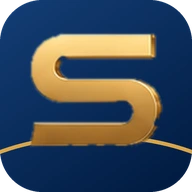
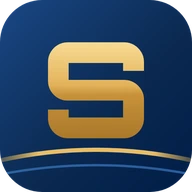
โลโก้หัวเพจทำใหม่เป็นเวกเตอร์ (SVG) — คมทุกขนาด แทนตัวอักษรที่ตัดจากรูปซึ่งเบลอ/ขอบแตก
- wordmark: ERP (กรมท่า) + SHIPME (ทองไล่เฉด) + LOGISTICS พร้อมเส้นทองแบบโลโก้ต้นฉบับ (ฟอนต์ Orbitron OFL แปลงเป็น path แล้ว ไม่ต้องโหลดฟอนต์)
- สัญลักษณ์ S ทองบนกรมท่า + เส้นโค้งทอง/ฟ้า: mark.svg ใช้ในหัวทุกหน้า + favicon SVG
- ไอคอน PNG ทุกขนาด (favicon / apple-touch / 192 / 512 / maskable) เรนเดอร์จาก SVG ชุดเดียวกัน
- หน้าเข้าสู่ระบบยังใช้โลโก้เต็มรูปเรือ

Changed region(s): [[0.0, 0.1562, 1.0, 0.9062], [0.7812, 0.9688, 0.8125, 1.0], [0.1875, 0.9688, 0.2188, 1.0]]

diff --git a/v2/public/admin.html b/v2/public/admin.html
@@ -5,9 +5,10 @@
 <meta name="viewport" content="width=device-width, initial-scale=1.0">
 <title>ERP SHIPME — ผู้ดูแลระบบ</title>
 <meta name="theme-color" content="#0B2A52">
-<link rel="icon" type="image/png" sizes="32x32" href="/brand/favicon-32.png?v=3">
-<link rel="icon" type="image/png" sizes="64x64" href="/brand/favicon-64.png?v=3">
-<link rel="apple-touch-icon" href="/brand/apple-touch-icon.png?v=3">
+<link rel="icon" type="image/svg+xml" href="/brand/mark.svg?v=4">
+<link rel="icon" type="image/png" sizes="32x32" href="/brand/favicon-32.png?v=4">
+<link rel="icon" type="image/png" sizes="64x64" href="/brand/favicon-64.png?v=4">
+<link rel="apple-touch-icon" href="/brand/apple-touch-icon.png?v=4">
 <style>
 @font-face{font-family:Sarabun;font-style:normal;font-weight:400;src:url("/fonts/Sarabun-Regular.ttf") format("truetype");font-display:swap}@font-face{font-family:Sarabun;font-style:normal;font-weight:600;src:url("/fonts/Sarabun-SemiBold.ttf") format("truetype");font-display:swap}@font-face{font-family:Sarabun;font-style:normal;font-weight:700;src:url("/fonts/Sarabun-Bold.ttf") format("truetype");font-display:swap}@font-face{font-family:Sarabun;font-style:normal;font-weight:800;src:url("/fonts/Sarabun-ExtraBold.ttf") format("truetype");font-display:swap}
 #tab-invoice,#tab-invoice input,#tab-invoice button,#tab-invoice select{font-family:Sarabun,sans-serif}
@@ -51,9 +52,9 @@
   header.top { height:57px; background:#fff; border-bottom:1px solid var(--line); padding:0 20px; display:flex; align-items:center; justify-content:space-between; gap:10px; position:sticky; top:0; z-index:20;
                box-shadow:inset 0 -3px 0 transparent; background-image:linear-gradient(90deg,#001D46,#0B2A52 30%,#1E56A8 55%,#D4A044 85%,#F2CB7A); background-size:100% 3px; background-repeat:no-repeat; background-position:bottom; }
   header.top .brand { font-weight:800; font-size:16px; color:var(--blue); display:flex; align-items:center; gap:12px; }
-  /* โลโก้แนวนอน: สัญลักษณ์ S ทอง + ตัวอักษร ERP SHIPME LOGISTICS (โลโก้เต็มรูปเรือเล็กเกินอ่านที่ความสูงหัวเพจ) */
+  /* โลโก้แนวนอน: สัญลักษณ์ S ทอง + ตัวอักษร ERP SHIPME LOGISTICS (เวกเตอร์ SVG คมทุกขนาด — โลโก้เต็มรูปเรือเล็กเกินอ่านที่ความสูงหัวเพจ) */
   header.top .brand-mark { height:38px; width:38px; border-radius:9px; display:block; box-shadow:0 1px 3px rgba(0,29,70,.25); }
-  header.top .brand-logo { height:34px; width:auto; display:block; }
+  header.top .brand-logo { height:36px; width:auto; display:block; }
   header.top .brand-sep { width:1px; height:26px; background:var(--line); }
   header.top .who { font-size:13px; color:var(--muted); }
   .nav { display:flex; gap:4px; background:#fff; padding:0 20px; border-bottom:1px solid var(--line); position:sticky; top:57px; z-index:19; overflow-x:auto; white-space:nowrap; }
@@ -311,7 +312,7 @@
 <!-- ===== APP ===== -->
 <div id="view-app" class="hidden">
   <header class="top">
-    <div class="brand"><img class="brand-mark" src="/brand/mark.webp?v=3" alt="" width="192" height="192"><img class="brand-logo" src="/brand/wordmark.webp?v=3" alt="ERP SHIPME Logistics" width="832" height="160"><span class="brand-sep"></span><span id="brand-title">แดชบอร์ดผู้ดูแล</span></div>
+    <div class="brand"><img class="brand-mark" src="/brand/mark.svg?v=4" alt="" width="38" height="38"><img class="brand-logo" src="/brand/wordmark.svg?v=4" alt="ERP SHIPME Logistics" width="680" height="125"><span class="brand-sep"></span><span id="brand-title">แดชบอร์ดผู้ดูแล</span></div>
     <div style="display:flex;align-items:center;gap:12px">
       <span class="who" id="who"></span>
       <button id="btn-logout" class="btn btn-ghost btn-sm">ออกจากระบบ</button>

diff --git a/v2/public/index.html b/v2/public/index.html
@@ -5,9 +5,10 @@
 <meta name="viewport" content="width=device-width, initial-scale=1.0, maximum-scale=1.0, user-scalable=no">
 <meta name="theme-color" content="#0B2A52">
 <title>ERP SHIPME — เช็คชื่อเข้างาน</title>
-<link rel="icon" type="image/png" sizes="32x32" href="/brand/favicon-32.png?v=3">
-<link rel="icon" type="image/png" sizes="64x64" href="/brand/favicon-64.png?v=3">
-<link rel="apple-touch-icon" href="/brand/apple-touch-icon.png?v=3">
+<link rel="icon" type="image/svg+xml" href="/brand/mark.svg?v=4">
+<link rel="icon" type="image/png" sizes="32x32" href="/brand/favicon-32.png?v=4">
+<link rel="icon" type="image/png" sizes="64x64" href="/brand/favicon-64.png?v=4">
+<link rel="apple-touch-icon" href="/brand/apple-touch-icon.png?v=4">
 <style>
   /* ธีม ERP SHIPME Logistics (สีจากโลโก้ใหม่): กรมท่า #0B2A52 • น้ำเงิน #1E56A8 • ฟ้า #4A8FE0 • ทอง #D4A044 / #F2CB7A */
   :root { --blue:#0B2A52; --blue2:#1E56A8; --cyan:#4A8FE0; --accent:#D4A044; --bg:#f1f5fb; --card:#fff; --ok:#16a34a; --err:#dc2626; --muted:#64748b;
@@ -286,7 +287,7 @@
   <!-- ======= CHECK-IN ======= -->
   <div id="screen-checkin" class="hidden">
     <header>
-      <div style="display:flex;align-items:center;gap:10px"><img class="hmark" src="/brand/mark.webp?v=3" alt="ERP SHIPME" width="40" height="40"><div><div class="title" id="hi-name">สวัสดี</div><div class="sub" id="hi-role">พนักงาน</div></div></div>
+      <div style="display:flex;align-items:center;gap:10px"><img class="hmark" src="/brand/mark.svg?v=4" alt="ERP SHIPME" width="40" height="40"><div><div class="title" id="hi-name">สวัสดี</div><div class="sub" id="hi-role">พนักงาน</div></div></div>
       <div style="display:flex; gap:6px; flex-wrap:wrap; justify-content:flex-end">
         <button id="btn-gorelease" class="btn-link hidden">งานปล่อย<span id="rl-badge" class="rl-badge hidden"></span></button>
         <button id="btn-goclaim" class="btn-link hidden">เบิก</button>

diff --git a/v2/public/driver.html b/v2/public/driver.html
@@ -6,7 +6,8 @@
 <meta name="theme-color" content="#06C755">
 <meta name="robots" content="noindex">
 <title>SHIPME — งานของฉัน</title>
-<link rel="icon" type="image/png" sizes="32x32" href="/brand/favicon-32.png?v=3">
+<link rel="icon" type="image/svg+xml" href="/brand/mark.svg?v=4">
+<link rel="icon" type="image/png" sizes="32x32" href="/brand/favicon-32.png?v=4">
 <style>
   :root { --navy:#0B2A52; --amber:#D4A044; --green:#06C755; --bg:#f2f4f7; --muted:#6b7686; --line:#e3e8ef; --red:#dc2626; --redbg:#fee2e2; --okbg:#dcfce7; --ok:#15803d; --warnbg:#fef3c7; --warn:#92400e; }
   * { box-sizing:border-box; -webkit-tap-highlight-color:transparent; }
@@ -63,7 +64,7 @@
 </head>
 <body>
 <div class="app">
-  <header><img src="/brand/mark.webp?v=3" alt="SHIPME"><div class="t"><b>SHIPME</b> งานของฉัน<span id="who">กำลังโหลด…</span></div></header>
+  <header><img src="/brand/mark.svg?v=4" alt="SHIPME"><div class="t"><b>SHIPME</b> งานของฉัน<span id="who">กำลังโหลด…</span></div></header>
   <div id="demo-bar" class="demo hidden">DEMO MODE — ข้อมูลทดลอง ยังไม่ได้เชื่อม LINE OA</div>
   <main id="main"><div class="center">กำลังโหลด…</div></main>
 </div>

diff --git a/v2/public/staff.html b/v2/public/staff.html
@@ -5,8 +5,9 @@
 <meta name="viewport" content="width=device-width, initial-scale=1.0, viewport-fit=cover">
 <meta name="theme-color" content="#0B2A52">
 <title>SHIPME — งานชิปปิ้ง</title>
-<link rel="icon" type="image/png" sizes="32x32" href="/brand/favicon-32.png?v=3">
-<link rel="apple-touch-icon" href="/brand/apple-touch-icon.png?v=3">
+<link rel="icon" type="image/svg+xml" href="/brand/mark.svg?v=4">
+<link rel="icon" type="image/png" sizes="32x32" href="/brand/favicon-32.png?v=4">
+<link rel="apple-touch-icon" href="/brand/apple-touch-icon.png?v=4">
 <style>
   /* SHIPME Driver Coordination — กรมท่า #0B2A52 • ทอง #D4A044 • LINE Green #06C755 (ป้ายโหมดทดลองคงสีส้ม = เตือน) */
   :root { --navy:#0B2A52; --navy2:#163F7E; --amber:#D4A044; --green:#06C755; --bg:#eef1f5; --card:#fff; --line:#e3e8ef;
@@ -136,7 +137,7 @@
 <body>
 <div class="app">
   <header>
-    <img src="/brand/mark.webp?v=3" alt="SHIPME">
+    <img src="/brand/mark.svg?v=4" alt="SHIPME">
     <div class="t"><b>SHIPME</b> <span id="hd-sub">Shipping Staff</span></div>
     <button id="btn-refresh" title="โหลดใหม่">↻</button>
   </header>

diff --git a/v2/src/app/d/[code]/route.ts b/v2/src/app/d/[code]/route.ts
@@ -31,7 +31,8 @@ function shell(title: string, head: string, main: string, script = '') {
 <meta name="robots" content="noindex, nofollow">
 <meta name="theme-color" content="#0B2A52">
 <title>${esc(title)}</title>
-<link rel="icon" type="image/png" sizes="32x32" href="/brand/favicon-32.png?v=3">
+<link rel="icon" type="image/svg+xml" href="/brand/mark.svg?v=4">
+<link rel="icon" type="image/png" sizes="32x32" href="/brand/favicon-32.png?v=4">
 ${head}
 <style>
   :root { --navy:#0B2A52; --blue:#1E56A8; --accent:#D4A044; --bg:#f1f5fb; --muted:#64748b; --ok:#166534; --okbg:#dcfce7; --err:#991b1b; --errbg:#fee2e2; }
@@ -65,7 +66,7 @@ ${head}
 </style>
 </head>
 <body>
-<header><img class="mk" src="/brand/mark.webp?v=3" alt="" width="38" height="38"><img class="wm" src="/brand/wordmark.webp?v=3" alt="ERP SHIPME Logistics" width="166" height="32"></header>
+<header><img class="mk" src="/brand/mark.svg?v=4" alt="" width="38" height="38"><img class="wm" src="/brand/wordmark.svg?v=4" alt="ERP SHIPME Logistics" width="174" height="32"></header>
 <main>${main}</main>
 <div class="foot">SHIPME Logistics</div>
 ${script}

diff --git a/docscan/src/components/Library.tsx b/docscan/src/components/Library.tsx
@@ -97,7 +97,7 @@ export default function Library({ folderId, ticket, onOpenFolder, onOpenDoc, onS
       <header className="mb-3 flex items-center justify-between">
         <div className="flex items-center gap-2.5">
           {/* eslint-disable-next-line @next/next/no-img-element */}
-          <img src="/brand/mark.webp?v=3" alt="" width={40} height={40} className="h-10 w-10 rounded-[10px]" />
+          <img src="/brand/mark.svg?v=4" alt="" width={40} height={40} className="h-10 w-10 rounded-[10px]" />
           <div className="leading-tight">
             <h1 className="text-2xl font-bold tracking-tight text-navy">DocScan</h1>
             <p className="text-xs font-semibold text-muted">by ERP <span className="text-accent">SHIPME</span></p>
